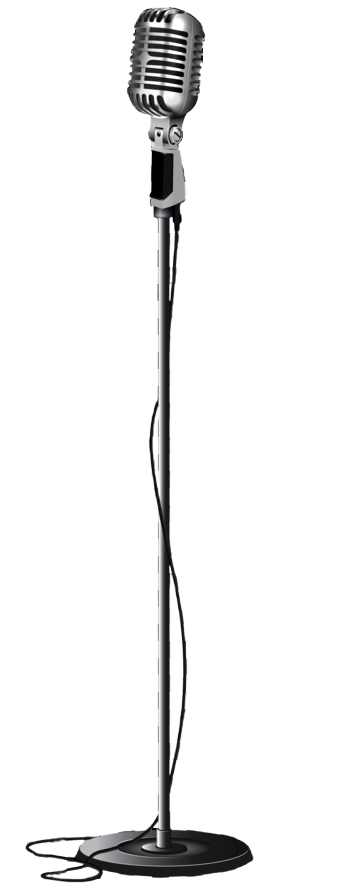
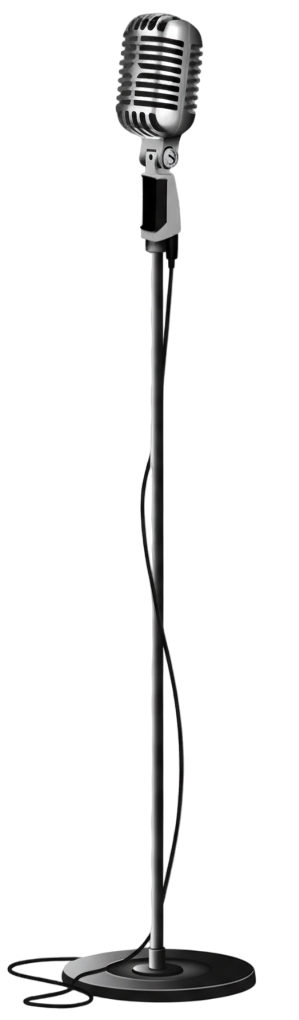
иконки

Changed region(s): [[0.0301, 0.0, 0.8729, 1.0]]

diff --git a/src/app/page.tsx b/src/app/page.tsx
@@ -22,29 +22,32 @@ export default function Home() {
             <main className="w-full flex-1 primary-bg">
                 {/* Hero Section */}
                 <div className="primary-bg">
-                    <Socials 
-                        size={SOCIAL_ICON_SIZE.sm} 
-                        className="container mx-auto hidden justify-end gap-x-1 pt-2 md:flex md:gap-x-2" 
+                    <Socials
+                        size={SOCIAL_ICON_SIZE.sm}
+                        className="container mx-auto hidden justify-end gap-x-1 pt-2 md:flex md:gap-x-2"
                     />
                     <section className="container mx-auto flex h-[100svh] sm:h-screen">
                         <div className="relative z-10 flex w-full justify-center">
-                            {/* Нет подходящей фотографии микрофрона. */}
-                            {/* <Image 
-                                src="/micro.png" 
-                                className="absolute bottom-0 left-90 z-50 hidden object-cover drop-shadow-2xl md:block md:w-[200px]" 
-                                width={200} 
-                                height={500} 
-                                alt="Микрофон" 
-                            /> */}
-                            <Image 
-                                src="/valeria/transparent-lera.png" 
-                                className="absolute bottom-0 right-0 z-50 object-cover drop-shadow-2xl md:w-[500px]" 
-                                width={400} 
-                                height={800} 
-                                alt="Валерия - преподаватель вокала" 
+                            <div className="absolute bottom-0 left-60 z-50 hidden md:block">
+                                <Image
+                                    src="/micro.png"
+                                    className="object-cover drop-shadow-2xl md:w-[180px]"
+                                    width={180}
+                                    height={500}
+                                    alt="Микрофон"
+                                />
+                                {/* тень микрофон */}
+                                <div className="pointer-events-none h-14 w-9 absolute left-21 top-5 mic-shadow animate-blurred-fade-in"></div>
+                                <div className="pointer-events-none h-3 w-24 absolute left-13 bottom-5 stand-shadow animate-blurred-fade-in"></div>
+                            </div>
+                            <Image
+                                src="/valeria/transparent-lera.png"
+                                className="absolute bottom-0 right-0 z-50 object-cover drop-shadow-2xl md:w-[600px]"
+                                width={400}
+                                height={800}
+                                alt="Валерия - преподаватель вокала"
                             />
-
-                            <div className="z-51 flex flex-col gap-y-6 p-8 lg:justify-center xl:gap-y-9">
+                            <div className="z-51 flex flex-col gap-y-6 p-8 lg:justify-start xl:gap-y-9">
                                 <h1 className="text-2xl font-bold text-white text-shadow-lg xl:text-7xl">
                                     ШКОЛА<br />
                                     <span className="ml-4">ВОКАЛА</span>
@@ -128,12 +131,12 @@ export default function Home() {
 
                 {/* Gallery Section */}
                 <Gallery />
-                
+
                 {/* Contacts Section */}
                 <section>
                     <Contacts />
                 </section>
-                
+
                 {/* Social Networks Section */}
                 <section className="container mx-auto px-4 py-10 text-white lg:py-16">
                     <header className="mb-6 flex flex-col md:mb-8 md:items-center md:text-center">

diff --git a/src/components/mobile-menu.tsx b/src/components/mobile-menu.tsx
@@ -13,6 +13,9 @@ import {
     SheetTrigger,
 } from '@/components/modals/sheet-enhanced'
 import BurgerMenu from '@/app/burger-menu';
+import { SOCIAL_ICON_SIZE } from './common/constants'
+import { Socials } from './common/socials'
+import { STUDIO_MOBILE_PHONE } from '@/app/constants'
 
 export default function MobileMenu() {
     const [open, setOpen] = useState(false)
@@ -40,7 +43,8 @@ export default function MobileMenu() {
                             />
                         </SheetTitle>
                     </SheetHeader>
-                    <nav className="flex flex-col space-y-4 px-2 py-2 text-2xl font-exo2">
+                    <div className='h-5/6 flex flex-col justify-between'>
+                        <nav className="flex flex-col space-y-4 px-2 py-2 text-2xl font-exo2">
                         <Link
                             href="#about"
                             className="flex items-center hover:text-red-400"
@@ -77,6 +81,14 @@ export default function MobileMenu() {
                             Контакты
                         </Link>
                     </nav>
+                    <section className='space-y-4'>
+                        <p className='font-exo2 text-2xl font-semibold'>{STUDIO_MOBILE_PHONE}</p>
+                        <Socials
+                        size={SOCIAL_ICON_SIZE.md}
+                        className="flex mx-auto gap-x-4"
+                    />
+                    </section>
+                    </div>
                 </SheetContent>
             </Sheet>
         </div>

diff --git a/src/components/sections/enrollment-section.tsx b/src/components/sections/enrollment-section.tsx
@@ -12,11 +12,11 @@ export function EnrollmentSection({ main = false }) {
         }
     }
     return (
-        <section id="study" className="bg-muted/50 py-6 lg:py-16">
+        <section id="study" className="bg-muted/50 py-6 lg:py-14">
             <EnrollmentModal isOpen={openModal} onClose={() => setOpenModal(false)} />
             {main ? (
                 <button 
-                    className="group relative m-auto mb-4 block cursor-pointer overflow-hidden rounded-full border border-white bg-brand px-5 py-2 font-bold text-white shadow-xl/20 backdrop-brightness-[.9] transition-all duration-300 hover:scale-105 hover:shadow-xl" 
+                    className="group relative m-auto mb-4 block cursor-pointer overflow-hidden rounded-sm primary-bg px-6 py-3 text-lg font-bold text-white shadow-[0_0_45px_15px] shadow-purple-900 transition-all duration-300 hover:scale-105" 
                     onClick={() => setOpenModal(true)}
                 >
                     Получи

diff --git a/src/components/modals/sheet-enhanced.tsx b/src/components/modals/sheet-enhanced.tsx
@@ -47,7 +47,7 @@ const SheetContent = React.forwardRef<
             {...props}
         >
             {children}
-            <SheetPrimitive.Close className="absolute right-4 top-4 rounded-sm opacity-70 transition-opacity ring-offset-background hover:opacity-100 focus:outline-none focus:ring-2 focus:ring-ring focus:ring-offset-2 disabled:pointer-events-none data-[state=open]:bg-secondary">
+            <SheetPrimitive.Close className="absolute right-4 top-4 rounded-sm opacity-70 transition-opacity ring-offset-background hover:opacity-100 disabled:pointer-events-none data-[state=open]:bg-secondary">
                 <X width={5} height={5} className="h-6 w-6" />
                 <span className="sr-only">Закрыть</span>
             </SheetPrimitive.Close>

diff --git a/src/app/constants.tsx b/src/app/constants.tsx
@@ -1,5 +1,6 @@
 import { StarIcon } from 'lucide-react'
 
+export const STUDIO_MOBILE_PHONE = '+7 (977) 967-50-01'
 export const programs = [
     {
         icon: <StarIcon
@@ -203,11 +204,11 @@ export const navigationList = [
 ]
 
 export const socials = [
-    {
-        url: 'https://www.instagram.com/zvuchi.vocal?igsh=NG40M3dwNnQ4Z21m&utm_source=qr',
-        src: "/socials/instagram.svg",
-        alt: "instagram",
-    },
+    // {
+    //     url: 'https://www.instagram.com/zvuchi.vocal?igsh=NG40M3dwNnQ4Z21m&utm_source=qr',
+    //     src: "/socials/instagram.svg",
+    //     alt: "instagram",
+    // },
     {
         url: 'https://t.me/zvuchivocal',
         src: "/socials/telegram.svg",

diff --git a/src/app/globals.css b/src/app/globals.css
@@ -169,6 +169,25 @@ body {
   color: var(--brand-secondary);
 }
 
+.mic-shadow {
+  z-index: -1;
+  background-color: #01080f;
+  border-radius: 50%;
+  -webkit-box-shadow: 0px 0px 25px 25px rgba(9, 4, 8, 0.51);
+  -moz-box-shadow: 0px 0px 25px 25px rgba(9, 4, 8, 0.51);
+  box-shadow: 0px 0px 25px 30px rgba(25, 2, 5, 0.61);
+}
+
+.stand-shadow {
+  z-index: -1;
+  background-color: #01080f;
+  border-radius: 50%;
+  -webkit-box-shadow: 0px 0px 25px 25px rgba(9, 4, 8, 0.51);
+  -moz-box-shadow: 0px 0px 25px 25px rgba(9, 4, 8, 0.51);
+  /* X – Y – Blur – Radius – , opacity */
+  box-shadow: 0px 0px 15px 15px rgba(25, 2, 5, 0.61);
+}
+
 .no-scrollbar::-webkit-scrollbar {
   display: none;
 }
